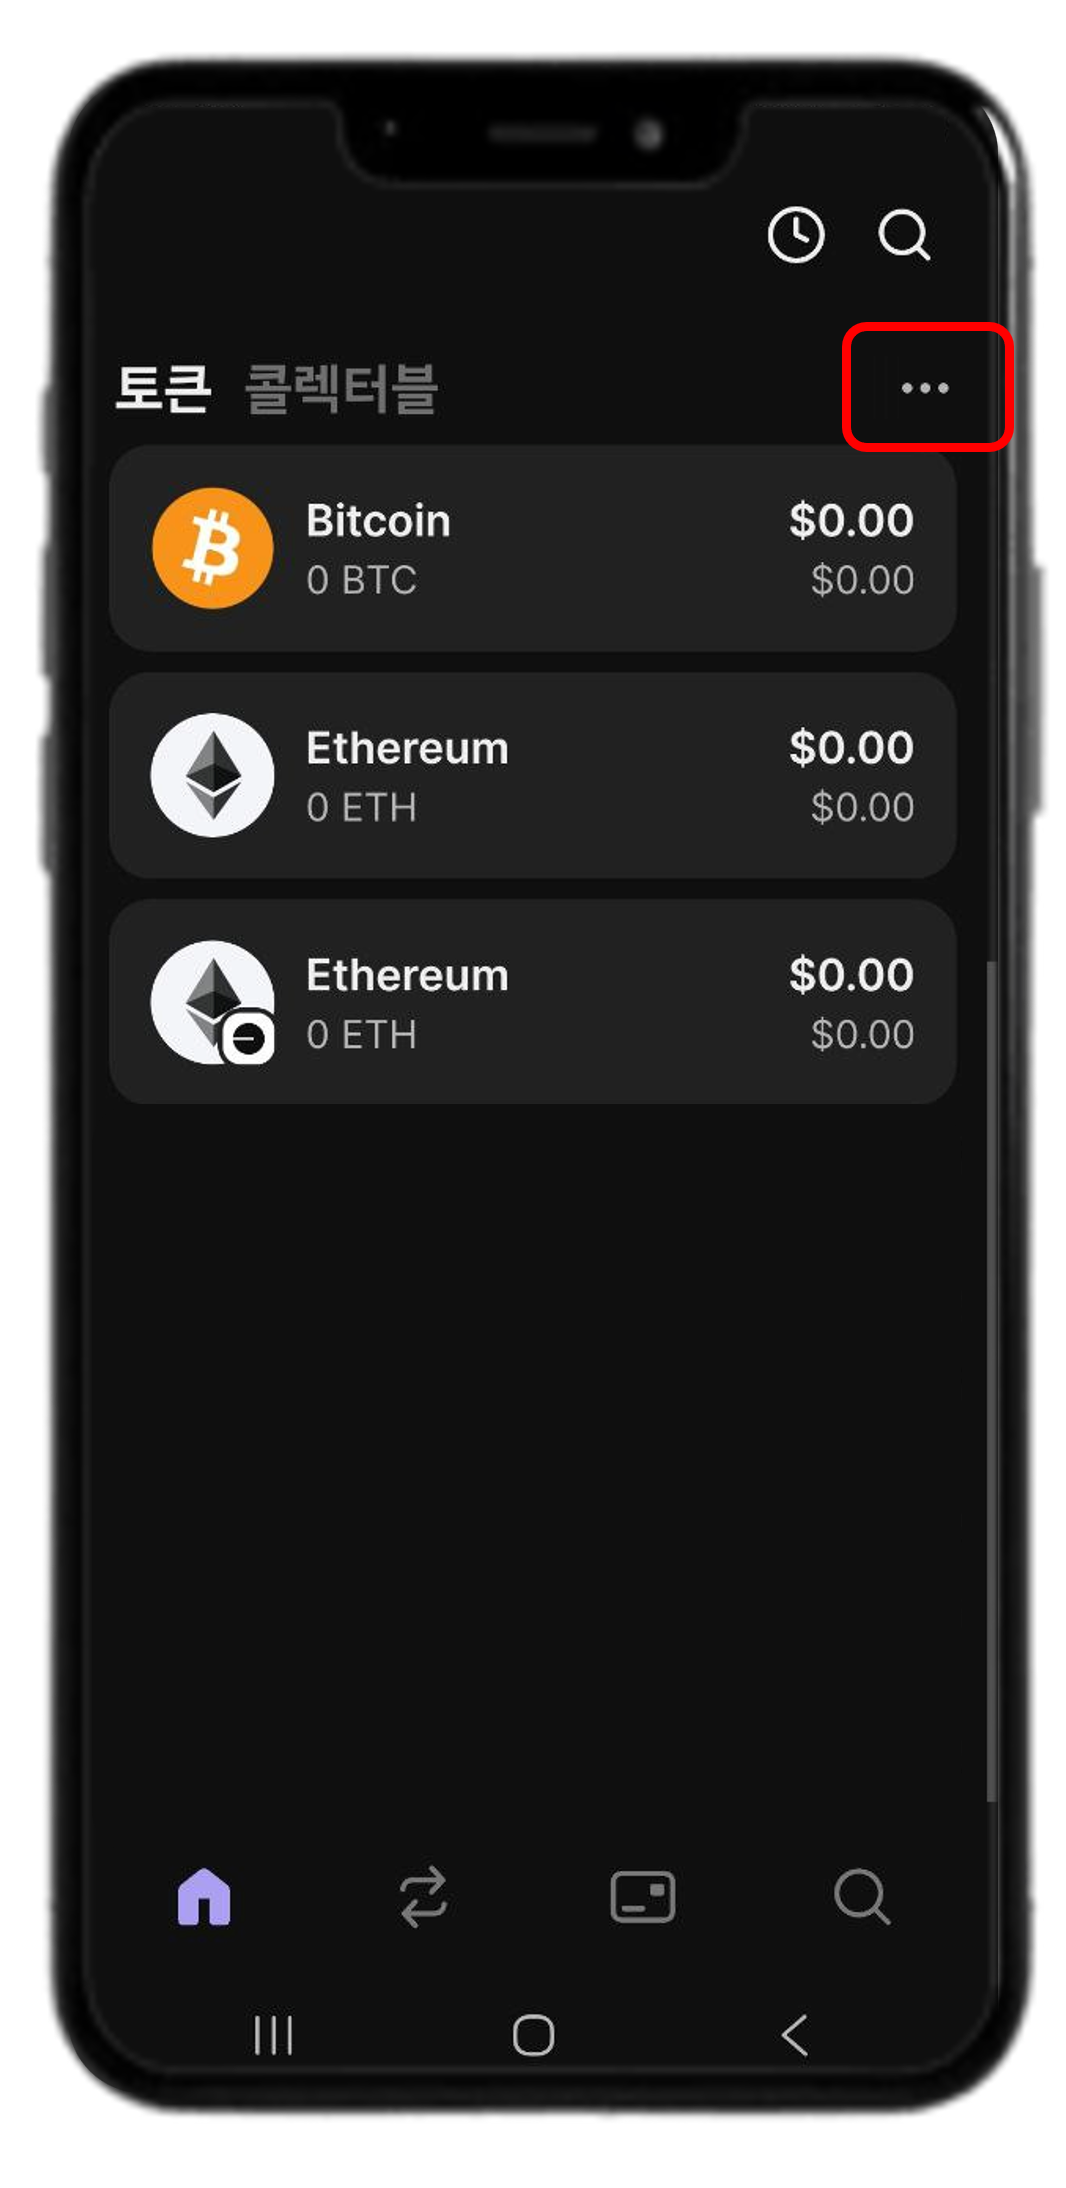
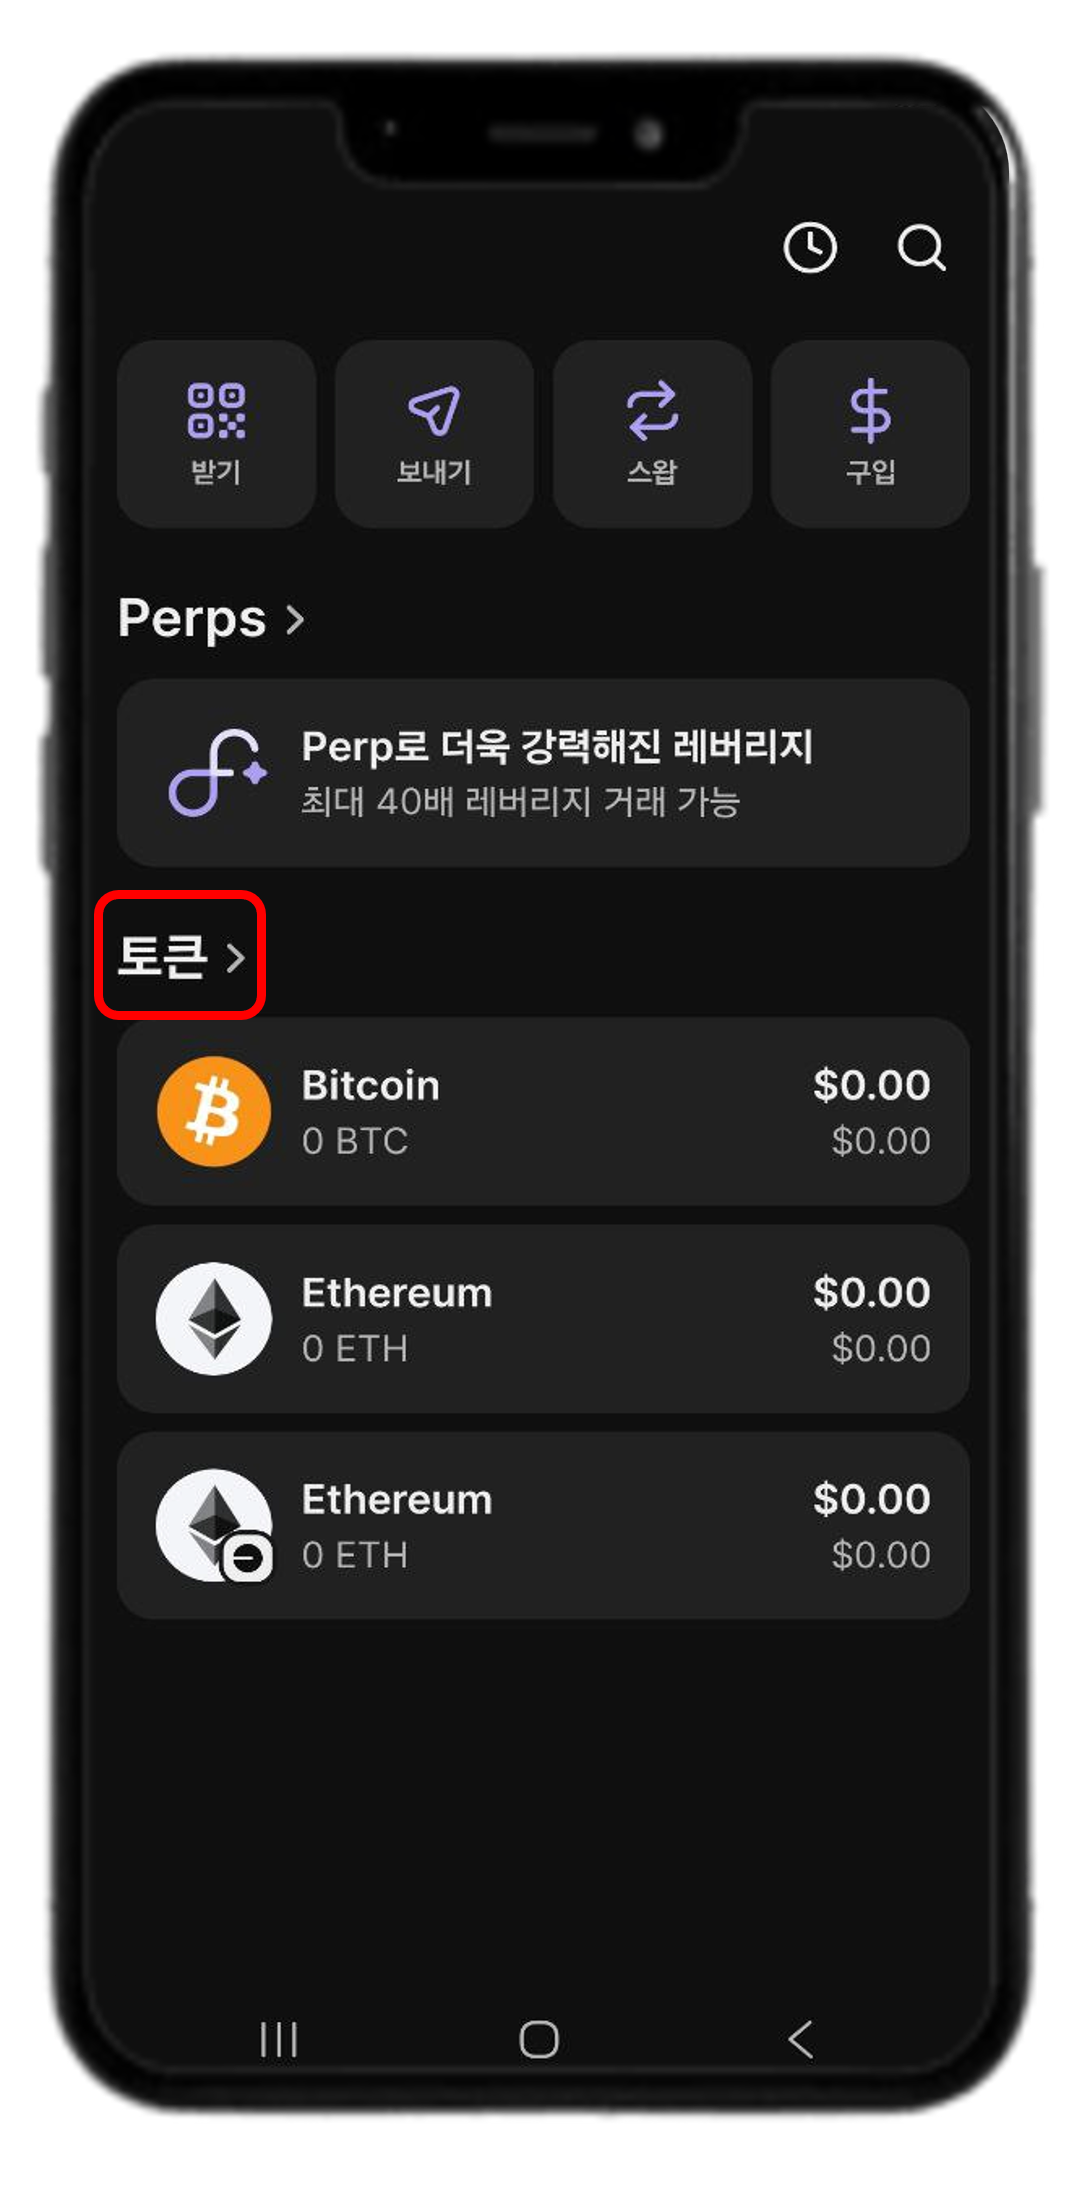
adding functionalities

diff --git a/src/contexts/language-context.jsx b/src/contexts/language-context.jsx
@@ -171,12 +171,13 @@ const translations = {
     walletGuide: "Wallet Guide",
     viewAsImage: "View as Image",
     walletGuideStep1:
-      "Open your Phantom Wallet → Tap the [⋯] icon at the top right of the token list",
-    walletGuideStep2: "Turn ON the toggle switch next to the deposited token",
+      "Open the Phantom wallet → Click [Tokens] at the top left of the coin list",
+    walletGuideStep2: "Click the [Manage] button at the top right",
     walletGuideStep3:
-      "Return to the main screen and select the deposited token",
-    walletGuideStep4: 'Tap "Report as Not Spam" at the bottom of the screen',
-    walletGuideStep5: "The token should now display correctly",
+      "Turn ON the toggle switch next to the deposited coin",
+    walletGuideStep4: 'Return to the main screen of the Phantom wallet and select the deposited coin',
+    walletGuideStep5: "Tap the [Report as not spam] button at the bottom",
+    walletGuideStep6: "The coin will now be displayed normally",
 
     othersSection: "Others",
     canUseOnPC: "Can I Use It on PC?",
@@ -381,12 +382,12 @@ const translations = {
       "기존 네트워크 방식이 아닌 새로운 네트워크에서 발행된 코인의 경우, 팬텀 지갑이 이를 신규 코인으로 인식하는 경우가 있습니다. 이는 코인 스왑 여부나 신뢰성과는 무관하므로 안심하셔도 됩니다. 자세한 해결 방법은 아래 지갑 가이드를 참고해주세요.",
     walletGuide: "지갑 가이드",
     viewAsImage: "이미지로 보기",
-    walletGuideStep1: "팬텀 지갑 실행 → 코인 목록 우측 상단 [⋯] 클릭",
-    walletGuideStep2: "입금 받은 코인의 우측 슬라이바 상태를 [ON]으로 변경",
-    walletGuideStep3: "팬텀 지갑 메인 화면으로 돌아가서 입금받은 코인 클릭",
-    walletGuideStep4: "하단의 [스팸 아님으로 신고] 버튼 클릭",
-    walletGuideStep5: "이제부터 코인이 정상적으로 표시됩니다",
-    searchForManagerEmail: "이름을 검색하세요",
+    walletGuideStep1: "팬텀 지갑 실행 → 코인 목록 좌측 상단 [토큰] 클릭",
+    walletGuideStep2: "우측 상단의 [관리 버튼] 클릭",
+    walletGuideStep3: "입금 받은 코인의 우측 슬라이 바 상태를 [ON]으로 변경",
+    walletGuideStep4: "팬텀 지갑 메인 화면으로 돌아가서 입금 받은 코인 클릭",
+    walletGuideStep5: "하단의 [스팸 아님으로 신고] 버튼 클릭",
+    searchForManagerEmail: "이제부터 코인이 정상적으로 표시됩니다.",
 
     othersSection: "기타",
     canUseOnPC: "PC 이용 가능 여부",

diff --git a/src/components/Homapage/WalletGuideDialog.jsx b/src/components/Homapage/WalletGuideDialog.jsx
@@ -18,7 +18,8 @@ export default function WalletGuideDialog({ open, onOpenChange }) {
     <Dialog open={open} onOpenChange={onOpenChange}>
       <DialogContent className="lg:max-w-[400px] w-full max-w-[400px] max-h-[90vh] overflow-y-auto bg-gray-900 text-white border-gray-700">
         <DialogHeader>
-          <DialogTitle className="text-2xl font-bold text-center mb-6">지갑 설정 가이드</DialogTitle>
+          <DialogTitle className="text-2xl font-bold text-center mb-1">지갑 설정 가이드</DialogTitle>
+          <DialogTitle className="text-xl font-bold text-center mb-6">잠시만 기다려 주시면, 이미지가 표시됩니다.</DialogTitle>
         </DialogHeader>
 
         <div className="space-y-6">
@@ -35,8 +36,8 @@ export default function WalletGuideDialog({ open, onOpenChange }) {
           {/* STEP 2 */}
           <GuideStep
             number={2}
-            title="표시된 [⋯] 클릭"
-            description="코인 목록 우측 상단의 [⋯] 아이콘을 클릭합니다"
+            title="표시된 [토큰] 버튼 클릭"
+            description="코인 목록 위의 [토큰] 버튼을 클릭합니다."
             image={imageGuide2}
             alt="imageGuide2"
           />
@@ -44,8 +45,8 @@ export default function WalletGuideDialog({ open, onOpenChange }) {
           {/* STEP 3 */}
           <GuideStep
             number={3}
-            title="[토큰 관리] 클릭"
-            description="토큰 관리 메뉴를 선택합니다"
+            title="우측 상단의 [버튼] 클릭"
+            description="토큰 관리 메뉴로 들어가게 됩니다."
             image={imageGuide3}
             alt="imageGuide3"
           />
